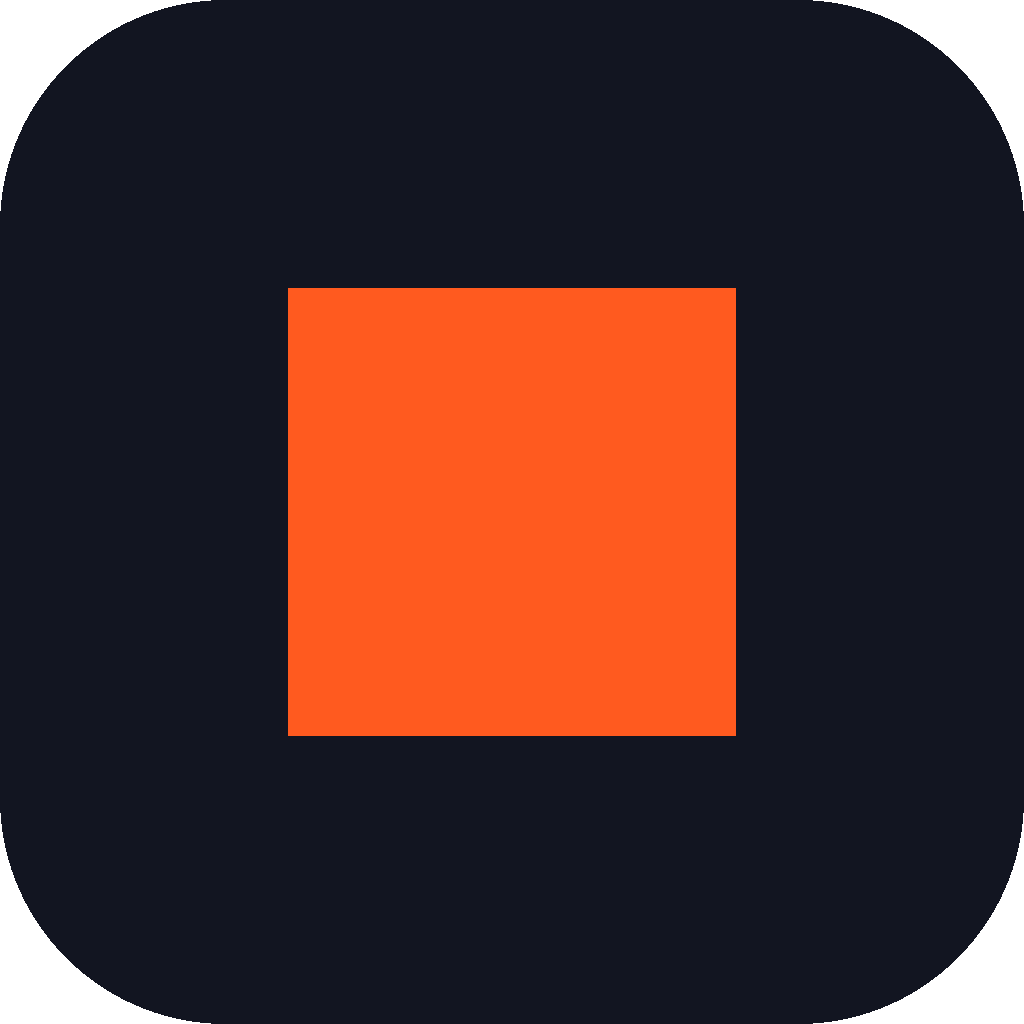
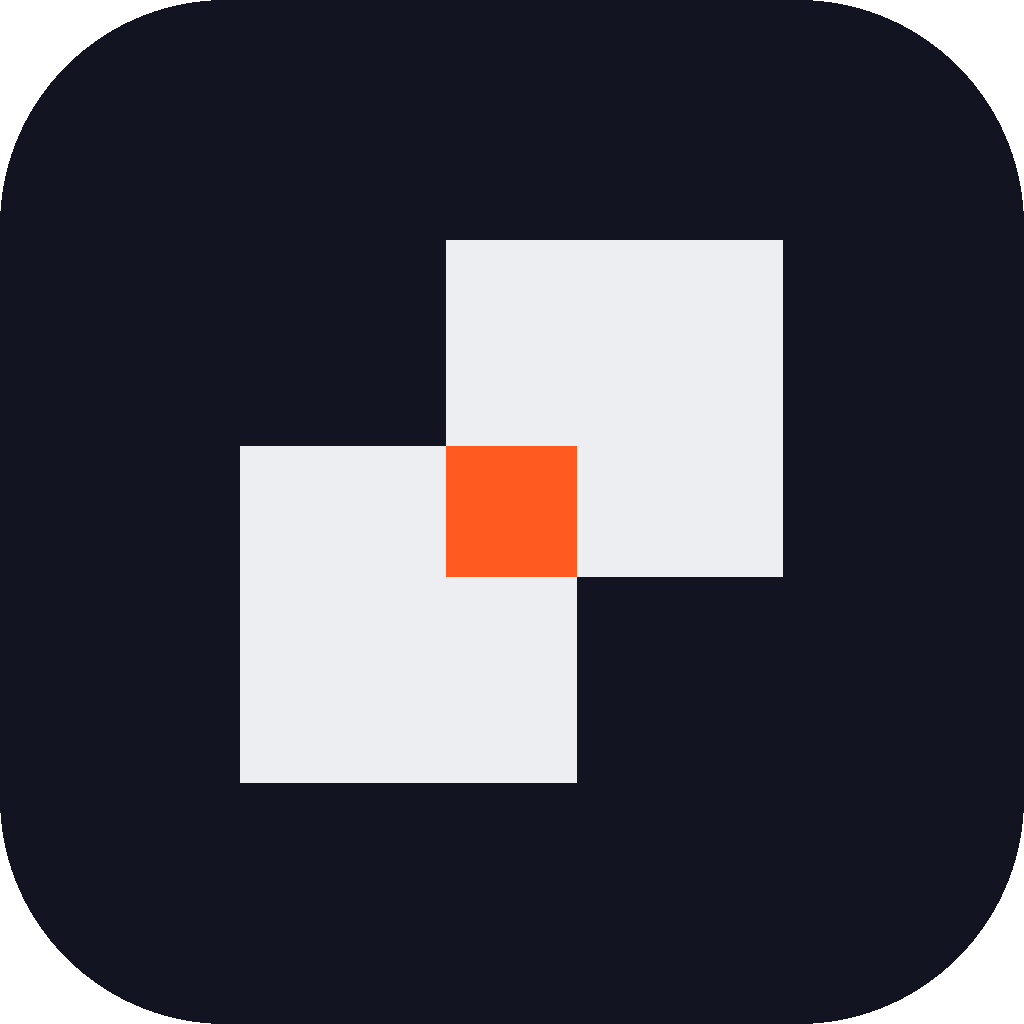
New mark: two squares with an orange overlap (F and S)

Changed region(s): [[0.2188, 0.2188, 0.7812, 0.7812]]

diff --git a/index.html b/index.html
@@ -63,9 +63,10 @@ p{margin:0}
 .skip{position:absolute;left:16px;top:-60px;z-index:100;background:var(--fg);color:var(--paper);padding:10px 14px;border-radius:3px;font-family:var(--mono);font-size:12px}
 .skip:focus{top:16px}
 
-/* wordmark: the signal square sits on the baseline, x-height tall */
-.wm{display:inline-flex;align-items:baseline;gap:.3em;font-family:var(--display);font-weight:600;letter-spacing:-.04em;line-height:1;color:var(--fg)}
-.wm i{display:inline-block;width:.52em;height:.52em;background:var(--signal);transform:translateY(-.02em)}
+/* wordmark: two squares with an orange overlap (F and S, and the work between), at cap height, then the name */
+.wm{display:inline-flex;align-items:baseline;gap:.2em;font-family:var(--display);font-weight:600;letter-spacing:-.04em;line-height:1;color:var(--fg)}
+.wm svg{width:.72em;height:.72em;display:inline-block;transform:translateY(.02em);flex:none}
+.wm svg .s{fill:currentColor}.wm svg .o{fill:var(--signal)}
 
 /* intro: particles gather into the square, the wordmark follows, the cover lifts */
 #intro{position:fixed;inset:0;z-index:70;background:var(--bg);display:grid;place-items:center;transition:clip-path .8s cubic-bezier(.76,0,.24,1);clip-path:inset(0 0 0 0)}
@@ -73,7 +74,10 @@ p{margin:0}
 #intro.gone{display:none}
 #intro canvas{position:absolute;inset:0;width:100%;height:100%}
 #intro .lock{position:relative;display:flex;align-items:baseline;gap:0;font-family:var(--display);font-weight:600;letter-spacing:-.04em;font-size:clamp(64px,11vw,160px);line-height:1;color:var(--fg)}
-#intro .lock i{display:inline-block;width:.52em;height:.52em;margin-right:.3em;background:var(--signal);transform:translateY(-.02em);opacity:0}
+#intro .lock i{display:inline-block;width:.72em;height:.72em;margin-right:.2em;transform:translateY(.02em);opacity:0;position:relative}
+#intro .lock i::before{content:"";position:absolute;left:0;top:38%;width:62%;height:62%;background:var(--fg)}
+#intro .lock i::after{content:"";position:absolute;left:38%;top:0;width:62%;height:62%;background:var(--fg)}
+#intro .lock i b{position:absolute;left:38%;top:38%;width:24%;height:24%;background:var(--signal);z-index:1}
 #intro .lock span{display:inline-block;opacity:0;transform:translateY(.25em)}
 #intro .lock.on i{opacity:1;transition:opacity .25s}
 #intro .lock.on span{opacity:1;transform:none;transition:opacity .5s cubic-bezier(.2,.7,.2,1),transform .6s cubic-bezier(.2,.7,.2,1)}
@@ -255,12 +259,12 @@ footer a:hover{color:var(--fg)}
 </style>
 
 <a class="skip" href="#top">Skip to content</a>
-<div id="intro" aria-hidden="true"><canvas id="ic"></canvas><div class="lock" id="lock"><i></i><span>F</span><span>a</span><span>n</span><span>d</span><span>s</span></div><div class="tag">Measured, not promised</div></div>
+<div id="intro" aria-hidden="true"><canvas id="ic"></canvas><div class="lock" id="lock"><i><b></b></i><span>F</span><span>a</span><span>n</span><span>d</span><span>s</span></div><div class="tag">Measured, not promised</div></div>
 <div id="stage" aria-hidden="true"><canvas id="gl"></canvas></div>
 <div id="peek" aria-hidden="true"><img src="img/barista.jpg" alt="" data-for="0"><img src="img/boutique-neutral.jpg" alt="" data-for="1"><img src="img/la-day.jpg" alt="" data-for="2"><img src="img/florist.jpg" alt="" data-for="3"><img src="img/office-1.jpg" alt="" data-for="4"></div>
 
 <nav aria-label="Primary">
-  <a class="wm" href="#top" aria-label="Fands, home"><i aria-hidden="true"></i>Fands</a>
+  <a class="wm" href="#top" aria-label="Fands, home"><svg viewBox="0 0 100 100" aria-hidden="true"><rect class="s" y="38" width="62" height="62"/><rect class="s" x="38" width="62" height="62"/><rect class="o" x="38" y="38" width="24" height="24"/></svg>Fands</a>
   <ul><li><a href="#measure">What we measure</a></li><li><a href="#services">Services</a></li><li><a href="#plan">Plan</a></li><li><a href="#contact">Contact</a></li></ul>
   <div class="right"><a class="btn" href="#contact">Book a walk-through</a></div>
 </nav>
@@ -377,7 +381,7 @@ footer a:hover{color:var(--fg)}
     <div class="marq" aria-label="Industries we work with"><div class="track"><span>Restaurants</span><span>Bars</span><span>Hotels</span><span>Salons</span><span>Spas</span><span>Boutiques</span><span>Fitness</span><span>Design studios</span><span>Creators</span><span aria-hidden="true">Restaurants</span><span aria-hidden="true">Bars</span><span aria-hidden="true">Hotels</span><span aria-hidden="true">Salons</span><span aria-hidden="true">Spas</span><span aria-hidden="true">Boutiques</span><span aria-hidden="true">Fitness</span><span aria-hidden="true">Design studios</span><span aria-hidden="true">Creators</span></div></div>
   </section>
 </main>
-<footer><a class="wm" href="#top" aria-label="Fands, back to top"><i aria-hidden="true"></i>Fands</a><div>West Hollywood, CA · <a href="mailto:hello@fands.io">hello@fands.io</a></div><div>© 2026 Fands</div></footer>
+<footer><a class="wm" href="#top" aria-label="Fands, back to top"><svg viewBox="0 0 100 100" aria-hidden="true"><rect class="s" y="38" width="62" height="62"/><rect class="s" x="38" width="62" height="62"/><rect class="o" x="38" y="38" width="24" height="24"/></svg>Fands</a><div>West Hollywood, CA · <a href="mailto:hello@fands.io">hello@fands.io</a></div><div>© 2026 Fands</div></footer>
 
 <script src="https://cdnjs.cloudflare.com/ajax/libs/three.js/0.160.0/three.min.js"></script>
 <script>
@@ -395,16 +399,20 @@ footer a:hover{color:var(--fg)}
     var ctx = c.getContext('2d'), dpr = Math.min(devicePixelRatio, 2), W, H;
     function size(){ W = c.width = innerWidth*dpr; H = c.height = innerHeight*dpr; } size();
     /* the square's on-screen box, measured from the lockup's <i> */
-    var sq = lock.querySelector('i'), r = sq.getBoundingClientRect(), tx = (r.left + r.width/2)*dpr, ty = (r.top + r.height/2)*dpr, half = r.width/2*dpr;
-    var N = innerWidth < 760 ? 420 : 900, P = [];
-    for(var i=0;i<N;i++){ var a = Math.random()*6.283, d = (0.35 + Math.random()*0.75) * Math.max(W,H)*0.6; P.push({x: tx + Math.cos(a)*d, y: ty + Math.sin(a)*d*0.7, gx: tx + (Math.random()*2-1)*half, gy: ty + (Math.random()*2-1)*half, s: (1+Math.random()*1.8)*dpr, k: 0.6+Math.random()*0.8}); }
+    var sq = lock.querySelector('i'), r = sq.getBoundingClientRect(), bx = r.left*dpr, by = r.top*dpr, bs = r.width*dpr, tx = bx + bs/2, ty = by + bs/2;
+    /* the mark in unit space: two squares and their overlap, picked by area */
+    var rects = [[0,.38,.62,.62,0],[.38,0,.62,.62,0],[.38,.38,.24,.24,1]], areas = [.33,.33,.12], tot = .78;
+    var N = innerWidth < 760 ? 500 : 1100, P = [];
+    for(var i=0;i<N;i++){ var pick = Math.random()*tot, ri = pick < areas[0] ? 0 : pick < areas[0]+areas[1] ? 1 : 2, rc = rects[ri];
+      var a = Math.random()*6.283, d = (0.35 + Math.random()*0.75) * Math.max(W,H)*0.6;
+      P.push({x: tx + Math.cos(a)*d, y: ty + Math.sin(a)*d*0.7, gx: bx + (rc[0] + Math.random()*rc[2])*bs, gy: by + (rc[1] + Math.random()*rc[3])*bs, o: rc[4], s: (1+Math.random()*1.8)*dpr, k: 0.6+Math.random()*0.8}); }
     var t0 = performance.now(), D = 1100, lit = false;
     function ease(t){ return t<.5 ? 4*t*t*t : 1-Math.pow(-2*t+2,3)/2; }
     (function frame(now){
       var t = Math.min(1, (now-t0)/D), e = ease(t);
       ctx.clearRect(0,0,W,H);
       var tail = Math.max(0, Math.min(1, (t-.84)/.16)); /* stragglers fade in the last 180ms instead of popping */
-      for(var i=0;i<N;i++){ var p = P[i], q = Math.min(1, e*p.k); var x = p.x + (p.gx-p.x)*q, y = p.y + (p.gy-p.y)*q; var arrived = q > .97; ctx.fillStyle = arrived ? '#ff5a1f' : '#121521'; ctx.globalAlpha = (.35 + q*.65) * (arrived ? 1 : 1-tail); ctx.fillRect(x, y, p.s, p.s); }
+      for(var i=0;i<N;i++){ var p = P[i], q = Math.min(1, e*p.k); var x = p.x + (p.gx-p.x)*q, y = p.y + (p.gy-p.y)*q; var arrived = q > .97; ctx.fillStyle = arrived && p.o ? '#ff5a1f' : '#121521'; ctx.globalAlpha = (.35 + q*.65) * (arrived ? 1 : 1-tail); ctx.fillRect(x, y, p.s, p.s); }
       ctx.globalAlpha = 1;
       if(t > .78 && !lit){ lit = true; lock.classList.add('on'); }
       if(t < 1) requestAnimationFrame(frame); else { ctx.clearRect(0,0,W,H); setTimeout(finish, 900); }

diff --git a/page.html b/page.html
@@ -29,9 +29,10 @@ p{margin:0}
 .skip{position:absolute;left:16px;top:-60px;z-index:100;background:var(--fg);color:var(--paper);padding:10px 14px;border-radius:3px;font-family:var(--mono);font-size:12px}
 .skip:focus{top:16px}
 
-/* wordmark: the signal square sits on the baseline, x-height tall */
-.wm{display:inline-flex;align-items:baseline;gap:.3em;font-family:var(--display);font-weight:600;letter-spacing:-.04em;line-height:1;color:var(--fg)}
-.wm i{display:inline-block;width:.52em;height:.52em;background:var(--signal);transform:translateY(-.02em)}
+/* wordmark: two squares with an orange overlap (F and S, and the work between), at cap height, then the name */
+.wm{display:inline-flex;align-items:baseline;gap:.2em;font-family:var(--display);font-weight:600;letter-spacing:-.04em;line-height:1;color:var(--fg)}
+.wm svg{width:.72em;height:.72em;display:inline-block;transform:translateY(.02em);flex:none}
+.wm svg .s{fill:currentColor}.wm svg .o{fill:var(--signal)}
 
 /* intro: particles gather into the square, the wordmark follows, the cover lifts */
 #intro{position:fixed;inset:0;z-index:70;background:var(--bg);display:grid;place-items:center;transition:clip-path .8s cubic-bezier(.76,0,.24,1);clip-path:inset(0 0 0 0)}
@@ -39,7 +40,10 @@ p{margin:0}
 #intro.gone{display:none}
 #intro canvas{position:absolute;inset:0;width:100%;height:100%}
 #intro .lock{position:relative;display:flex;align-items:baseline;gap:0;font-family:var(--display);font-weight:600;letter-spacing:-.04em;font-size:clamp(64px,11vw,160px);line-height:1;color:var(--fg)}
-#intro .lock i{display:inline-block;width:.52em;height:.52em;margin-right:.3em;background:var(--signal);transform:translateY(-.02em);opacity:0}
+#intro .lock i{display:inline-block;width:.72em;height:.72em;margin-right:.2em;transform:translateY(.02em);opacity:0;position:relative}
+#intro .lock i::before{content:"";position:absolute;left:0;top:38%;width:62%;height:62%;background:var(--fg)}
+#intro .lock i::after{content:"";position:absolute;left:38%;top:0;width:62%;height:62%;background:var(--fg)}
+#intro .lock i b{position:absolute;left:38%;top:38%;width:24%;height:24%;background:var(--signal);z-index:1}
 #intro .lock span{display:inline-block;opacity:0;transform:translateY(.25em)}
 #intro .lock.on i{opacity:1;transition:opacity .25s}
 #intro .lock.on span{opacity:1;transform:none;transition:opacity .5s cubic-bezier(.2,.7,.2,1),transform .6s cubic-bezier(.2,.7,.2,1)}
@@ -221,12 +225,12 @@ footer a:hover{color:var(--fg)}
 </style>
 
 <a class="skip" href="#top">Skip to content</a>
-<div id="intro" aria-hidden="true"><canvas id="ic"></canvas><div class="lock" id="lock"><i></i><span>F</span><span>a</span><span>n</span><span>d</span><span>s</span></div><div class="tag">Measured, not promised</div></div>
+<div id="intro" aria-hidden="true"><canvas id="ic"></canvas><div class="lock" id="lock"><i><b></b></i><span>F</span><span>a</span><span>n</span><span>d</span><span>s</span></div><div class="tag">Measured, not promised</div></div>
 <div id="stage" aria-hidden="true"><canvas id="gl"></canvas></div>
 <div id="peek" aria-hidden="true"><img src="img/barista.jpg" alt="" data-for="0"><img src="img/boutique-neutral.jpg" alt="" data-for="1"><img src="img/la-day.jpg" alt="" data-for="2"><img src="img/florist.jpg" alt="" data-for="3"><img src="img/office-1.jpg" alt="" data-for="4"></div>
 
 <nav aria-label="Primary">
-  <a class="wm" href="#top" aria-label="Fands, home"><i aria-hidden="true"></i>Fands</a>
+  <a class="wm" href="#top" aria-label="Fands, home"><svg viewBox="0 0 100 100" aria-hidden="true"><rect class="s" y="38" width="62" height="62"/><rect class="s" x="38" width="62" height="62"/><rect class="o" x="38" y="38" width="24" height="24"/></svg>Fands</a>
   <ul><li><a href="#measure">What we measure</a></li><li><a href="#services">Services</a></li><li><a href="#plan">Plan</a></li><li><a href="#contact">Contact</a></li></ul>
   <div class="right"><a class="btn" href="#contact">Book a walk-through</a></div>
 </nav>
@@ -343,7 +347,7 @@ footer a:hover{color:var(--fg)}
     <div class="marq" aria-label="Industries we work with"><div class="track"><span>Restaurants</span><span>Bars</span><span>Hotels</span><span>Salons</span><span>Spas</span><span>Boutiques</span><span>Fitness</span><span>Design studios</span><span>Creators</span><span aria-hidden="true">Restaurants</span><span aria-hidden="true">Bars</span><span aria-hidden="true">Hotels</span><span aria-hidden="true">Salons</span><span aria-hidden="true">Spas</span><span aria-hidden="true">Boutiques</span><span aria-hidden="true">Fitness</span><span aria-hidden="true">Design studios</span><span aria-hidden="true">Creators</span></div></div>
   </section>
 </main>
-<footer><a class="wm" href="#top" aria-label="Fands, back to top"><i aria-hidden="true"></i>Fands</a><div>West Hollywood, CA · <a href="mailto:hello@fands.io">hello@fands.io</a></div><div>© 2026 Fands</div></footer>
+<footer><a class="wm" href="#top" aria-label="Fands, back to top"><svg viewBox="0 0 100 100" aria-hidden="true"><rect class="s" y="38" width="62" height="62"/><rect class="s" x="38" width="62" height="62"/><rect class="o" x="38" y="38" width="24" height="24"/></svg>Fands</a><div>West Hollywood, CA · <a href="mailto:hello@fands.io">hello@fands.io</a></div><div>© 2026 Fands</div></footer>
 
 <script src="https://cdnjs.cloudflare.com/ajax/libs/three.js/0.160.0/three.min.js"></script>
 <script>
@@ -361,16 +365,20 @@ footer a:hover{color:var(--fg)}
     var ctx = c.getContext('2d'), dpr = Math.min(devicePixelRatio, 2), W, H;
     function size(){ W = c.width = innerWidth*dpr; H = c.height = innerHeight*dpr; } size();
     /* the square's on-screen box, measured from the lockup's <i> */
-    var sq = lock.querySelector('i'), r = sq.getBoundingClientRect(), tx = (r.left + r.width/2)*dpr, ty = (r.top + r.height/2)*dpr, half = r.width/2*dpr;
-    var N = innerWidth < 760 ? 420 : 900, P = [];
-    for(var i=0;i<N;i++){ var a = Math.random()*6.283, d = (0.35 + Math.random()*0.75) * Math.max(W,H)*0.6; P.push({x: tx + Math.cos(a)*d, y: ty + Math.sin(a)*d*0.7, gx: tx + (Math.random()*2-1)*half, gy: ty + (Math.random()*2-1)*half, s: (1+Math.random()*1.8)*dpr, k: 0.6+Math.random()*0.8}); }
+    var sq = lock.querySelector('i'), r = sq.getBoundingClientRect(), bx = r.left*dpr, by = r.top*dpr, bs = r.width*dpr, tx = bx + bs/2, ty = by + bs/2;
+    /* the mark in unit space: two squares and their overlap, picked by area */
+    var rects = [[0,.38,.62,.62,0],[.38,0,.62,.62,0],[.38,.38,.24,.24,1]], areas = [.33,.33,.12], tot = .78;
+    var N = innerWidth < 760 ? 500 : 1100, P = [];
+    for(var i=0;i<N;i++){ var pick = Math.random()*tot, ri = pick < areas[0] ? 0 : pick < areas[0]+areas[1] ? 1 : 2, rc = rects[ri];
+      var a = Math.random()*6.283, d = (0.35 + Math.random()*0.75) * Math.max(W,H)*0.6;
+      P.push({x: tx + Math.cos(a)*d, y: ty + Math.sin(a)*d*0.7, gx: bx + (rc[0] + Math.random()*rc[2])*bs, gy: by + (rc[1] + Math.random()*rc[3])*bs, o: rc[4], s: (1+Math.random()*1.8)*dpr, k: 0.6+Math.random()*0.8}); }
     var t0 = performance.now(), D = 1100, lit = false;
     function ease(t){ return t<.5 ? 4*t*t*t : 1-Math.pow(-2*t+2,3)/2; }
     (function frame(now){
       var t = Math.min(1, (now-t0)/D), e = ease(t);
       ctx.clearRect(0,0,W,H);
       var tail = Math.max(0, Math.min(1, (t-.84)/.16)); /* stragglers fade in the last 180ms instead of popping */
-      for(var i=0;i<N;i++){ var p = P[i], q = Math.min(1, e*p.k); var x = p.x + (p.gx-p.x)*q, y = p.y + (p.gy-p.y)*q; var arrived = q > .97; ctx.fillStyle = arrived ? '#ff5a1f' : '#121521'; ctx.globalAlpha = (.35 + q*.65) * (arrived ? 1 : 1-tail); ctx.fillRect(x, y, p.s, p.s); }
+      for(var i=0;i<N;i++){ var p = P[i], q = Math.min(1, e*p.k); var x = p.x + (p.gx-p.x)*q, y = p.y + (p.gy-p.y)*q; var arrived = q > .97; ctx.fillStyle = arrived && p.o ? '#ff5a1f' : '#121521'; ctx.globalAlpha = (.35 + q*.65) * (arrived ? 1 : 1-tail); ctx.fillRect(x, y, p.s, p.s); }
       ctx.globalAlpha = 1;
       if(t > .78 && !lit){ lit = true; lock.classList.add('on'); }
       if(t < 1) requestAnimationFrame(frame); else { ctx.clearRect(0,0,W,H); setTimeout(finish, 900); }
